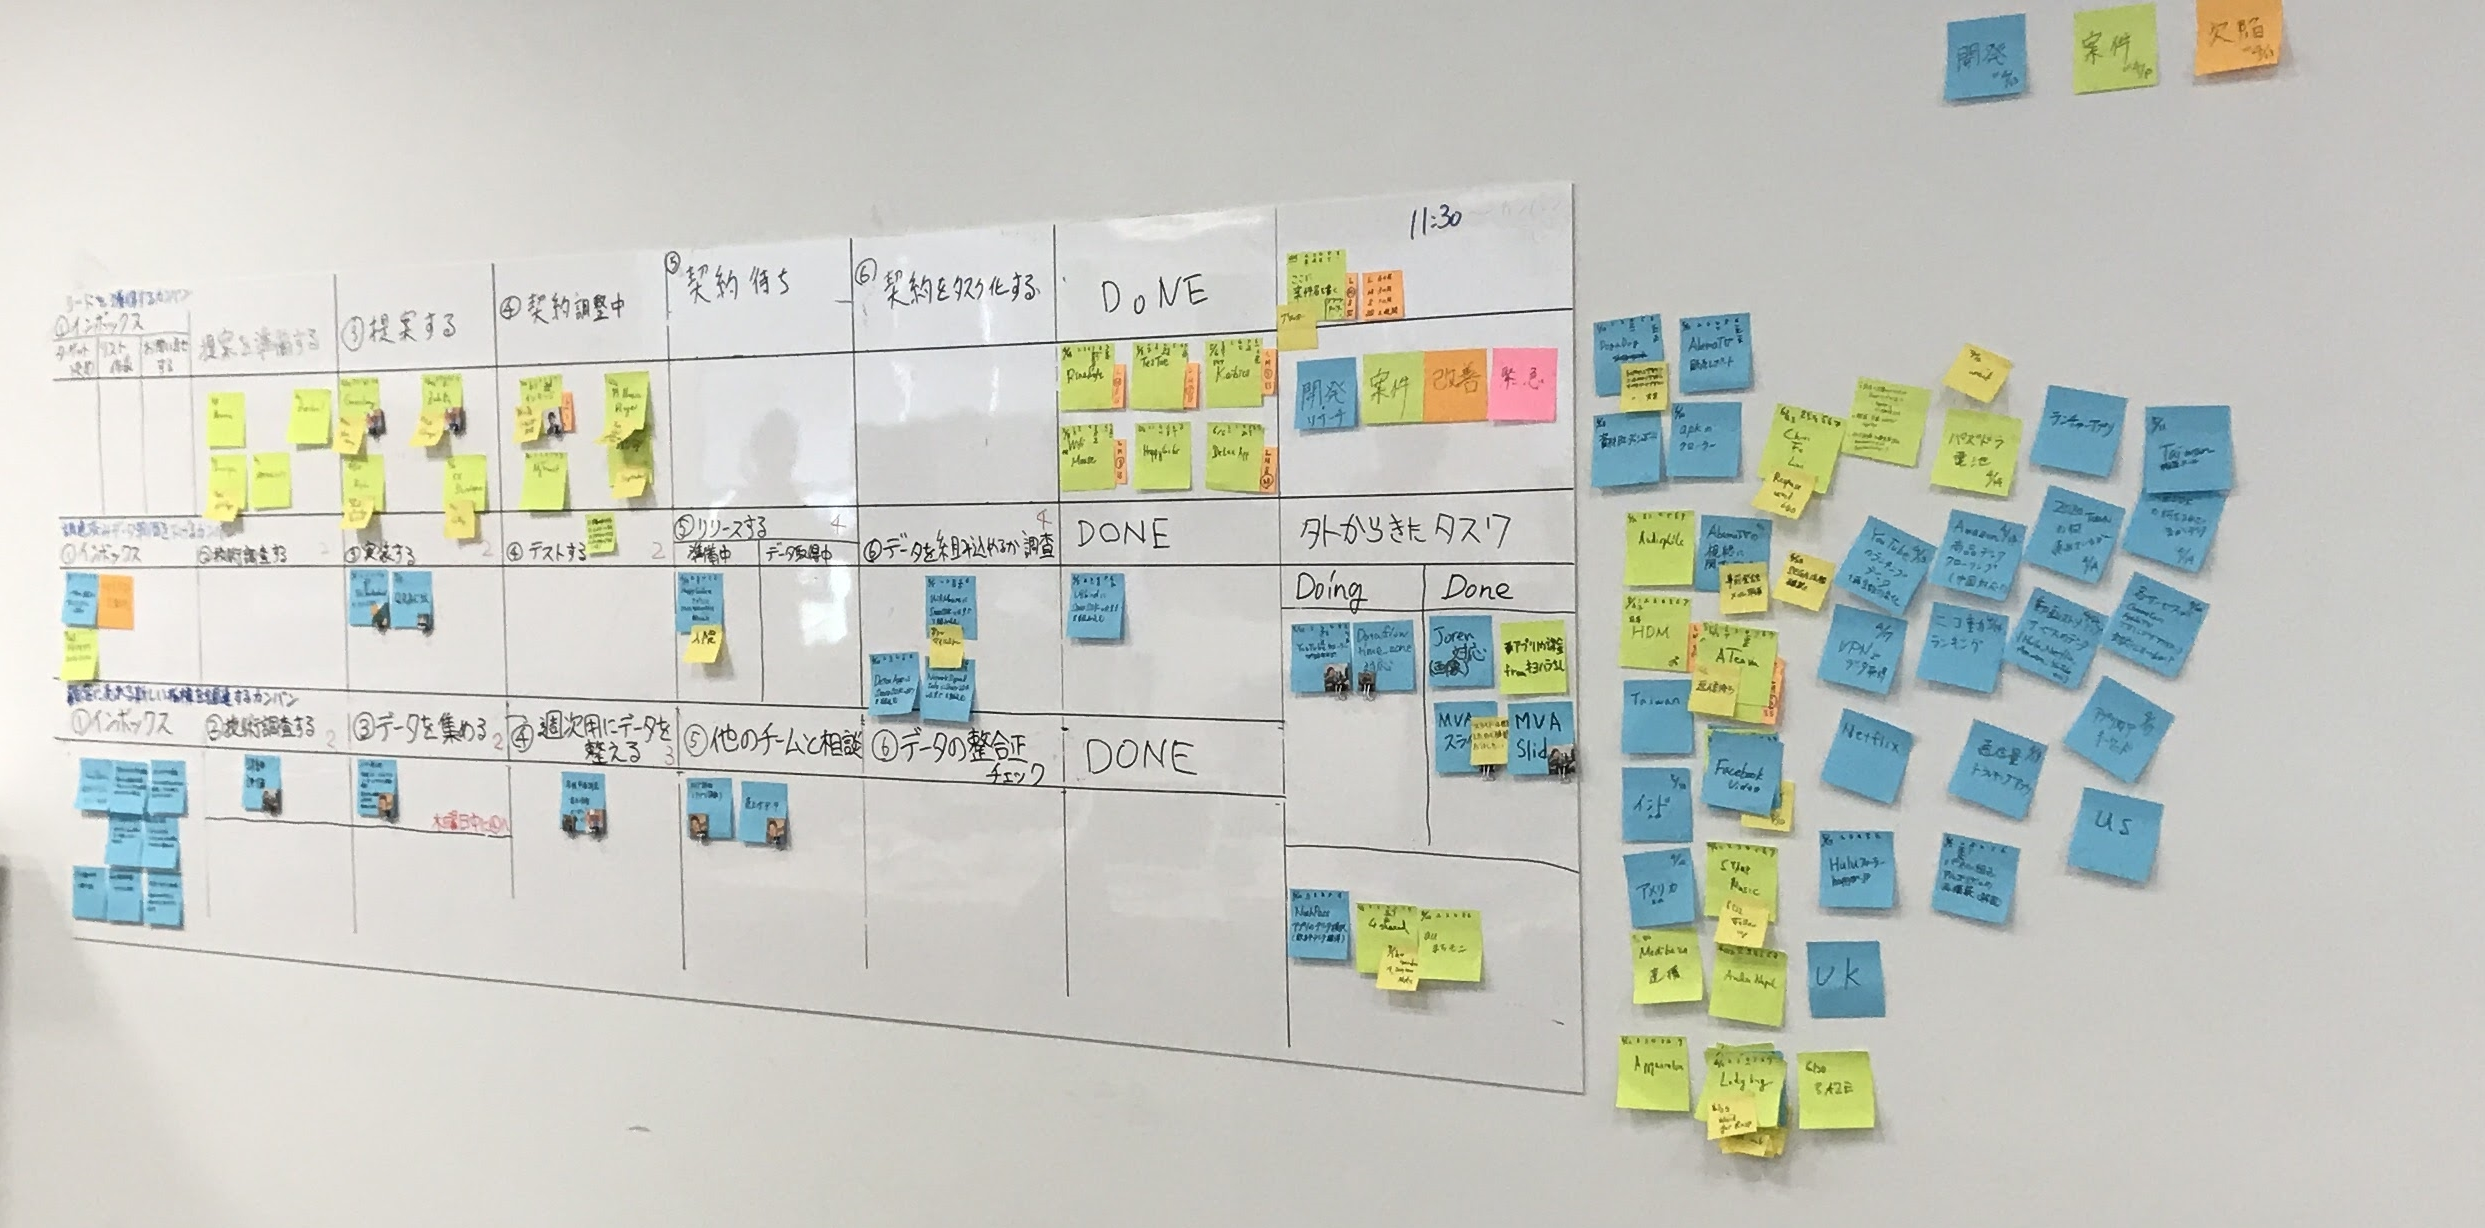
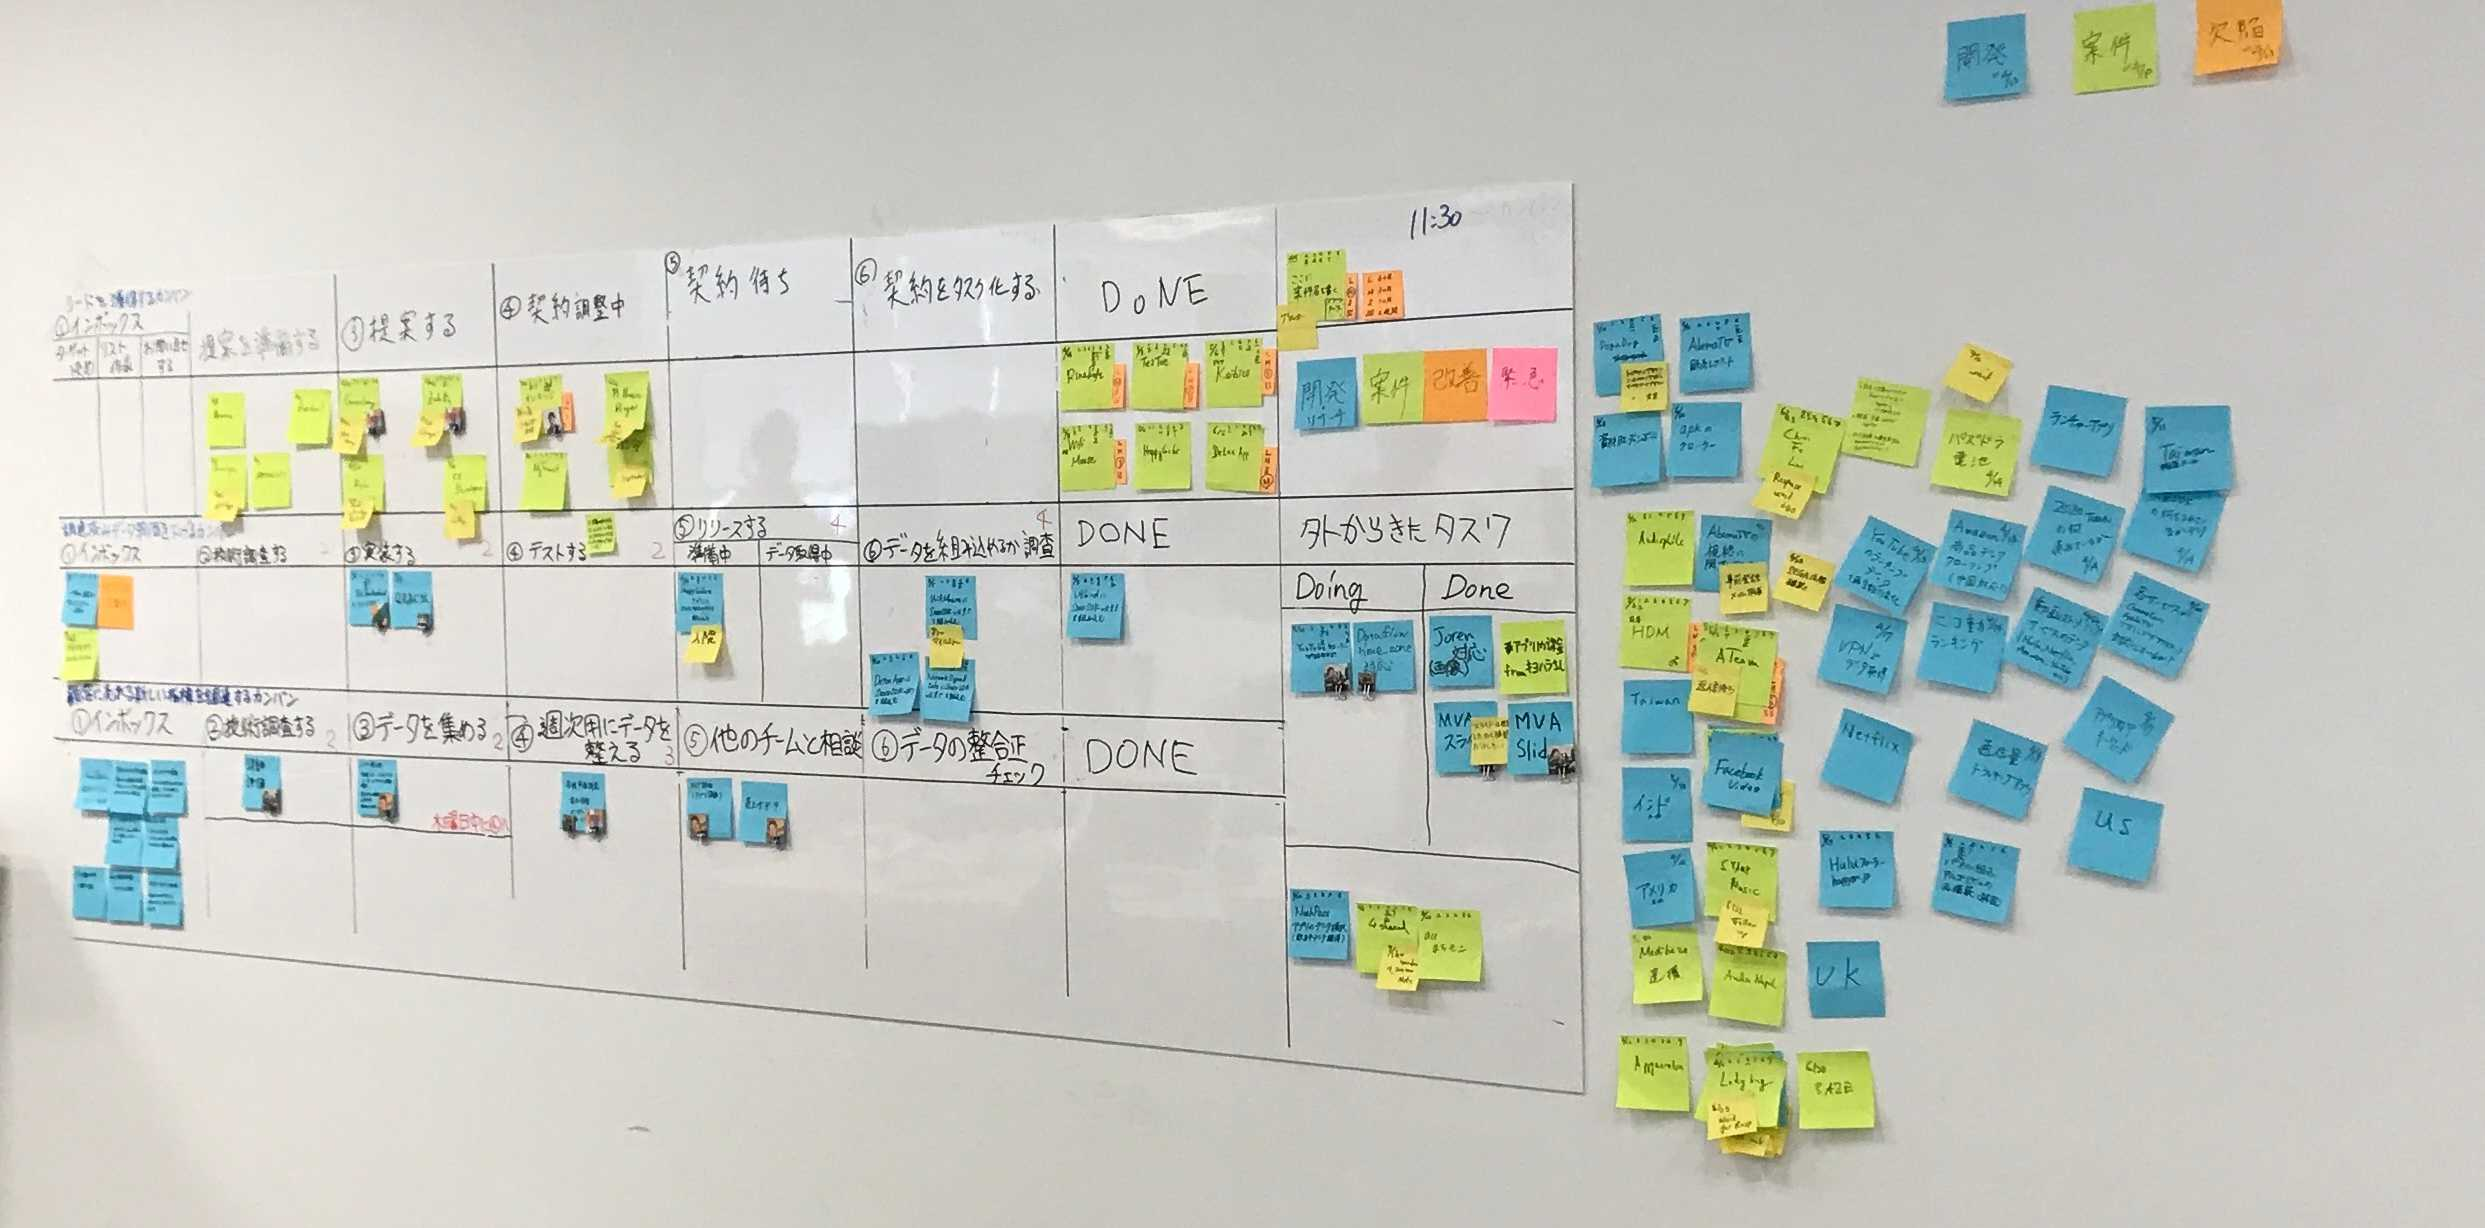
fix featured image

diff --git a/_posts/2017-08-22-startup-jp-4-kanban.md b/_posts/2017-08-22-startup-jp-4-kanban.md
@@ -4,10 +4,10 @@ title:  "#4. 개발 문화(2) : 칸반 이야기"
 author: seon
 categories: [일본 스타트업을 코딩하다, 스타트업 이야기, 일본 이야기]
 tags: [2017년, 스타트업, 일본 이야기, fuller-inc, 칸반]
+imagefeature: /feature-image/startup-jp/startup-jp-4.jpg
 comments: true
 share: true
 ---
-![cover-image](https://s3-ap-northeast-1.amazonaws.com/seonology-blog/jekyll/featured-image/startup-jp-4.jpg)
 
 > 일본에서 경험한 칸반 방법론에 대한 이야기를 간략하게 정리해봅니다.
 
